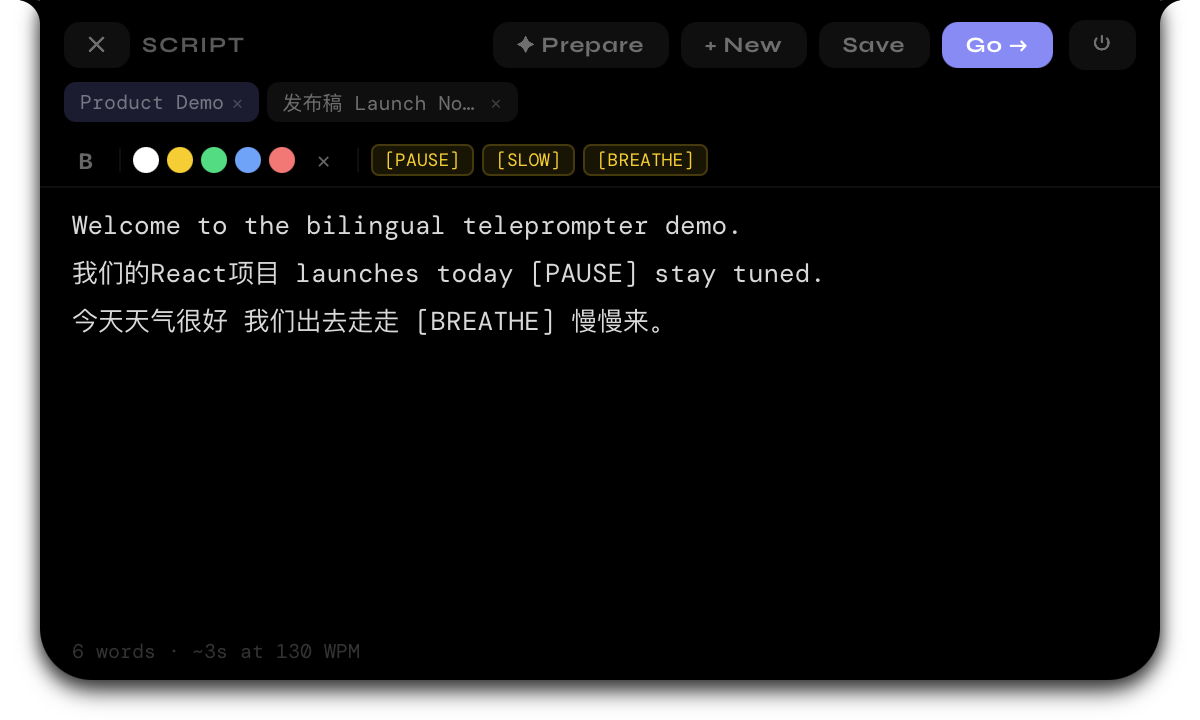
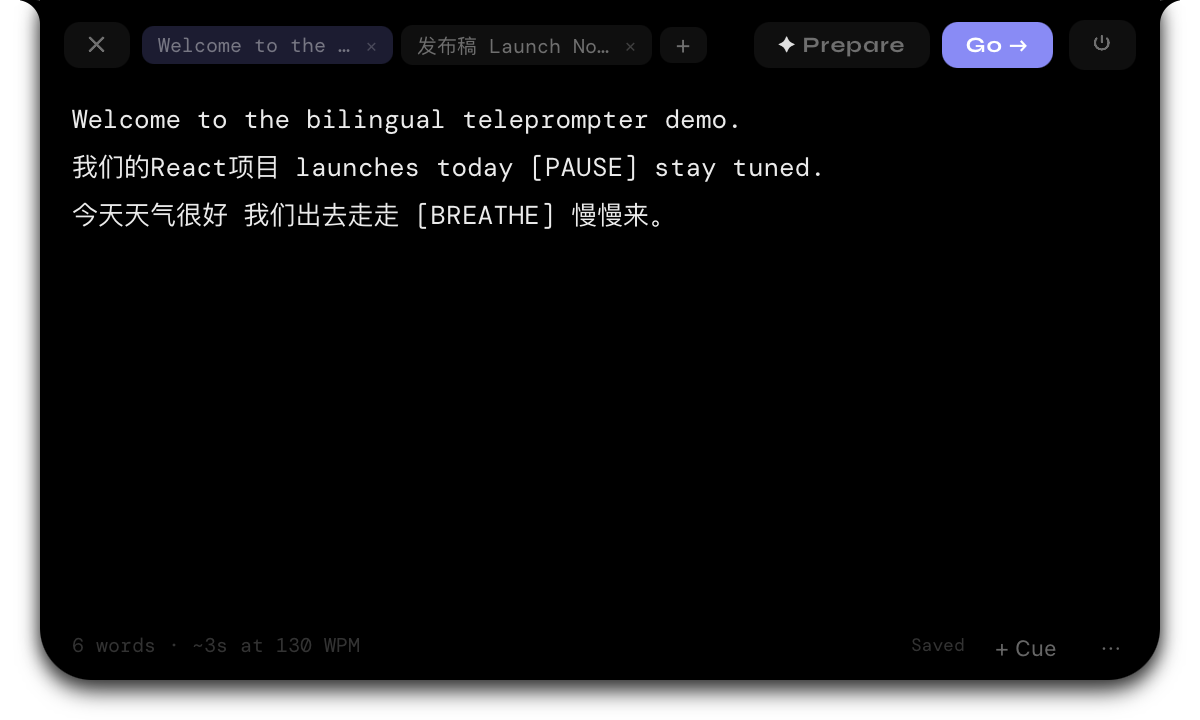
Release v1.1.0
Bump the version across the manifests, re-capture the four README
screenshots from the live v1.1.0 app (simplified one-row editor,
autosave indicator, footer menus), document the measured word-tracking
improvements in the README feature section with a pointer to the
ARCHITECTURE methodology, write the v1.1.0 release notes into the
release workflow, and add the v1.1.0 changelog entry.

diff --git a/README.md b/README.md
@@ -27,15 +27,15 @@ See [NOTICE](NOTICE) for license and provenance details. Upstream repository: ht
 <p align="center"><img src="docs/screenshots/word-tracking.png" width="600" alt="Word-level speech tracking on a mixed Chinese/English script"></p>
 <p align="center"><em>Word tracking on a mixed 中文/English script: spoken text dims, the current word is underlined, cue markers pause for you.</em></p>
 
-<p align="center"><img src="docs/screenshots/editor.png" width="600" alt="The script editor with library, rich text toolbar, and cue markers"></p>
-<p align="center"><em>The script editor: library, rich text, cue markers — and ✦ Prepare.</em></p>
+<p align="center"><img src="docs/screenshots/editor.png" width="600" alt="The script editor: one-row header with script tabs, Prepare, and Go; autosave indicator and cue/format menus in the footer"></p>
+<p align="center"><em>The script editor: script tabs, ✦ Prepare, and Go in one row — edits autosave, cue markers and formatting live in the footer menus.</em></p>
 
 <p align="center"><img src="docs/screenshots/ai-review.png" width="600" alt="Prepare with AI side-by-side review"></p>
 <p align="center"><em>Prepare with AI: side-by-side review before anything replaces your script.</em></p>
 
 ---
 
-## Download — v1.0.0 (this fork)
+## Download — v1.1.0 (this fork)
 
 | Platform | Link | Notes |
 |---|---|---|
@@ -51,13 +51,14 @@ This fork is **macOS only** (the speech-tracking sidecar uses Apple's Speech fra
 - 🏝 **Dynamic Island mode** — real concave corners, Apple spring physics, pixel-perfect notch fit
 - 🖥 **Classic mode** — draggable floating pill, works on any Mac (notch or not)
 - 🎙 **Voice-activated scroll** — frequency analysis (85–3400 Hz), not just volume. Only your voice triggers it
-- 📝 **Rich text editor** — bold, highlights, cue markers `[PAUSE]` `[SLOW]` `[BREATHE]`
-- 📚 **Script library** — save and switch multiple scripts, auto-saves
+- 📝 **Distraction-free editor** — script tabs, ✦ Prepare, and Go in a single header row; bold/color and cue markers `[PAUSE]` `[SLOW]` `[BREATHE]` in compact footer menus
+- 📚 **Script library** — switch scripts from the header tabs; edits autosave (⌘S also works)
+- 🎯 **Script-biased recognition** *(macOS 14+)* — word tracking builds an on-device language model from your script, measurably improving recognition of names and technical terms (see [Word Tracking](#word-tracking-this-fork))
 - 🔇 **Invisible during screen share** — Zoom, Meet, Loom can't see it. Only you can
 - 🌗 **Light & dark theme** — pastel light default, toggleable
 - ⚡ **Live controls** — speed + font size adjustable while reading
 - 🌫 **Opacity control** — barely-there to solid
-- ⌨ **Global shortcuts** — ⌘⇧Space, ⌘⇧↑↓, ⌘⇧R, ⌘⇧E (open editor)
+- ⌨ **Global shortcuts** — ⌘⇧Space, ⌘⇧↑↓, ⌘⇧R, ⌘⇧E (open editor); ⌘S saves in the editor
 
 ---
 
@@ -69,7 +70,8 @@ Instead of scrolling at a fixed speed whenever it hears sound, the prompter can 
 - **Scroll follows you** — the current word is eased toward a reading line at ~35% of the viewport. Speed up, slow down, skip a phrase, or stumble: the cursor tolerates skipped words, fillers, and misreads, and never jumps backward.
 - **English and Mandarin** — pick the language in Settings → Word Tracking (English / 中文). Chinese scripts are tracked per character, so no spaces are needed; mixed Chinese–English scripts work, including Latin words embedded in Chinese text (e.g. 我们的React项目).
 - **100% on-device** — recognition uses Apple's Speech framework with `requiresOnDeviceRecognition`. No audio or transcripts ever leave your Mac. macOS will ask once for Speech Recognition permission (plus the existing microphone permission).
-- **Graceful fallback** — if Speech permission is denied or the on-device model for the selected language isn't installed (System Settings › Keyboard › Dictation), the app falls back to the original frequency-based voice activation and says so in Settings. You can also turn Word Tracking off entirely.
+- **Script-biased recognition (macOS 14+)** — at the start of each reading session the app builds a customized on-device language model from your script (cached per script, rebuilt on edit), biasing recognition toward the exact words on screen. On a jargon-heavy test sentence this raised words recognized from 10/18 to 13/18 and cut p90 word-to-recognition latency from 1428 ms to 792 ms; common-vocabulary text is unaffected. On older systems or unsupported locales the stock model is used, silently. Display-side responsiveness is also tuned so the highlight keeps up with your voice: the scroll-easing time constant dropped from ~280 ms to ~100 ms and the spoken-word fade from 300 ms to 150 ms. Measurement methodology and full numbers: [docs/ARCHITECTURE.md](docs/ARCHITECTURE.md) §3.3.
+- **Graceful fallback** — if Speech permission is denied or the on-device model for the selected language isn't installed (System Settings › Keyboard › Dictation), the app falls back to the original frequency-based voice activation and says so in Settings. A clear script/language mismatch (an English script with 中文 tracking selected, or vice versa) is flagged in the reading view and Settings. You can also turn Word Tracking off entirely.
 
 Under the hood: a small Swift sidecar streams on-device partial transcripts to the app, and a forward-searching matcher aligns them against the tokenized script. Details in [docs/ARCHITECTURE.md](docs/ARCHITECTURE.md) §3.1.
 

diff --git a/CHANGELOG.md b/CHANGELOG.md
@@ -1,5 +1,70 @@
 # Changelog
 
+## v1.1.0 — 2026-08-20
+
+UI and word-tracking polish release, driven by real-world use on a
+MacBook Pro 14" (M4).
+
+### Word tracking
+
+- **Script-biased recognition (macOS 14+):** each reading session builds a
+  customized on-device language model from the current script
+  (`SFCustomLanguageModelData`, one phrase per line), cached per
+  (script, locale) hash and rebuilt on edit; the recognition session rotates
+  to the biased model once prepared, and unsupported systems/locales fall
+  back to the stock model silently. Measured on a jargon-heavy sentence:
+  words recognized 10/18 → 13/18, p90 word-to-recognition latency
+  1428 ms → 792 ms (methodology in `docs/ARCHITECTURE.md` §3.3)
+- Display-side responsiveness: scroll-easing time constant ~280 ms → ~100 ms,
+  spoken-word fade 300 ms → 150 ms — the next-expected-word highlight now
+  reads slightly ahead of the voice instead of trailing it
+- Latency instrumentation: sidecar messages carry timestamps, a deterministic
+  measurement harness (`scripts/track-latency.mjs` + sidecar `--audio-file`
+  mode) records partial cadence and spoken-word→partial latency; baseline on
+  an M4: partials every ~250 ms, word→partial p50 400 ms / p90 619 ms
+- Fixed: adopting the custom model mid-session could cascade a canceled
+  recognition task's error into a fatal `recognizer_storm`
+- Script/recognition language mismatches (English script with 中文 tracking,
+  or a mostly-Chinese script with English) are detected when reading starts
+  and surfaced in the reading view and the settings window
+- Dev-only tracking-quality overlay (`?trackdebug=1`): raw partials vs
+  matched position, LM state, confidence, partial age
+
+### UI
+
+- **Notch fit:** the collapsed pill now derives its exact width, height, and
+  x-position from the physical notch at runtime (NSScreen `safeAreaInsets` +
+  auxiliary top areas) instead of hardcoded values, correct on any model and
+  any display-scaling option; the expanded panel centers on the measured
+  notch. Non-notch displays and classic mode are unchanged
+- **Editor simplified around reading on camera:** single header row —
+  close · script switcher tabs (with a "+" tab replacing + New) ·
+  ✦ Prepare · Go · quit. Save button removed in favor of debounced autosave
+  with a subtle "Saved" indicator; ⌘S remains as a manual trigger. Cue
+  markers consolidated into one "+ Cue" insert menu and bold/color controls
+  into a "⋯" overflow menu, both in the footer; the freed rows go to script
+  text
+- **Guided AI setup:** the first ✦ Prepare click opens a one-time inline
+  setup explaining the two providers (Claude API key vs local Ollama), with
+  a real "Test connection" validation (new `ai_test` command), then
+  automatically continues the originally requested Prepare; with a provider
+  configured, Prepare runs immediately behind a visible progress overlay
+- **Theme-safe text colors:** script text defaults to the theme text color
+  in both the editor and the prompter; explicit white/black/transparent
+  color marks are neutralized at load and render time (healing legacy
+  scripts), and AI-prepared output inherits the default style — no
+  combination can render text invisible
+- **Scrollbars:** every scrollable view uses thin overlay-style scrollbars —
+  transparent track, subtle theme-tinted thumb — in both themes
+
+### Internals
+
+- 76 unit tests (was 58); visual golden coverage extended to 16 states
+  (AI setup panel) and stabilized (fonts-ready wait, deterministic
+  trackdemo scroll)
+- Dev/test hooks: `TELEPROMPTER_FAKE_NOTCH`, `?aisetup=1`, `?scrolldemo=1`,
+  `?trackdebug=1`, sidecar `--script` / `--audio-file`
+
 ## v1.0.0 — 2026-08-19
 
 First release of **Bilingual AI Teleprompter**, a fork of
